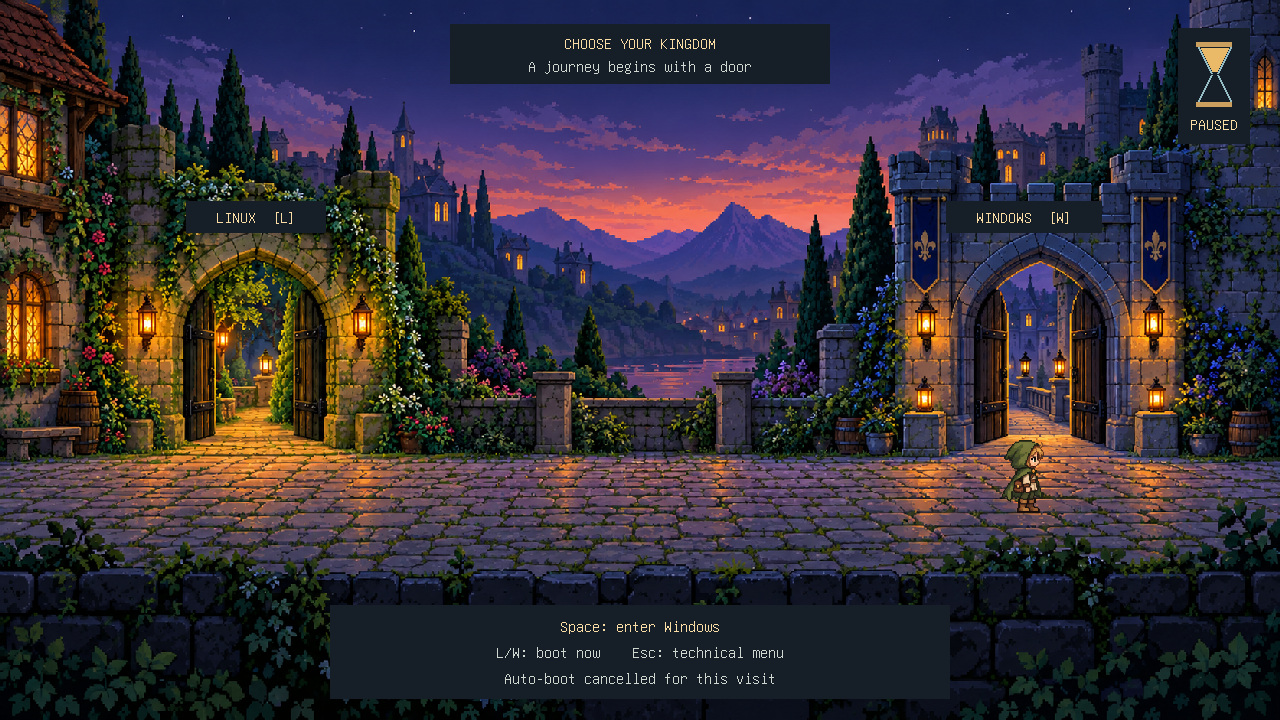
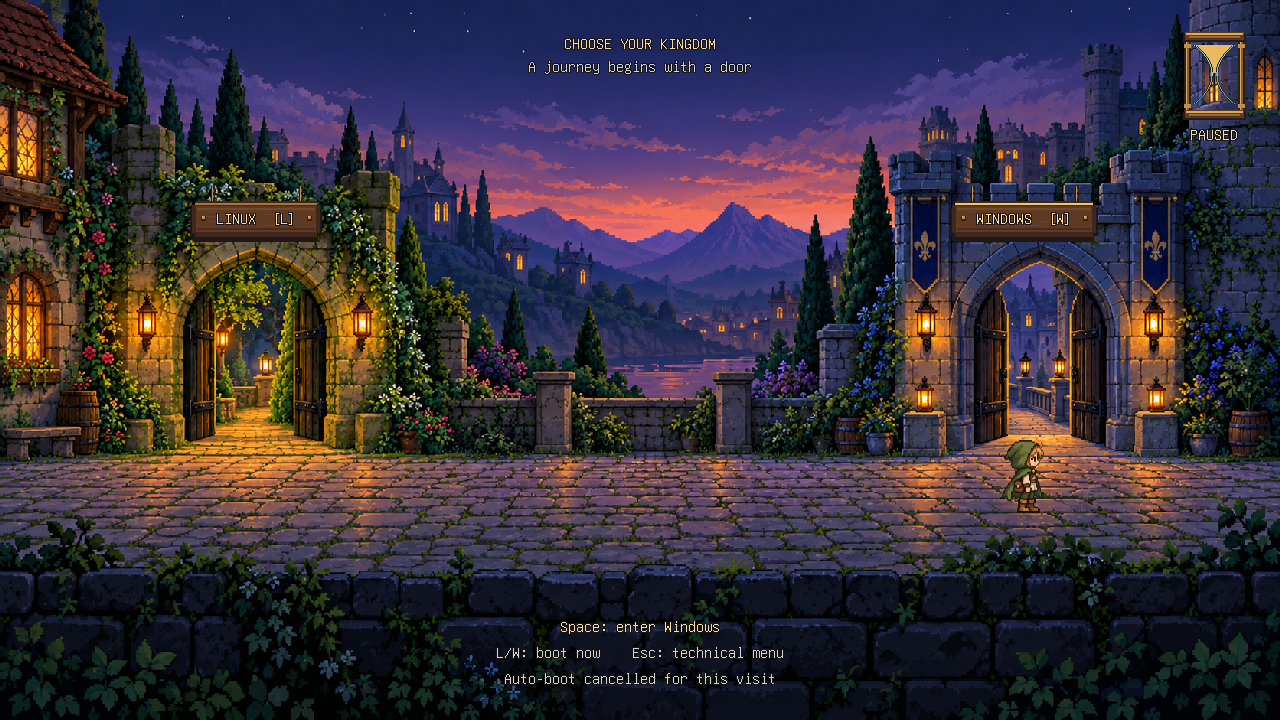
feat: add wooden gate signs and a freestanding hourglass

diff --git a/fancy/bourgeois.c b/fancy/bourgeois.c
@@ -46,6 +46,13 @@ static void
 label (const char *text, int center, int y, int gold)
 {
   int text_width = grub_font_get_string_width (font, text);
+  int dx, dy;
+  /* The scene remains visible behind the text. A dark outline keeps glyphs
+     readable over both lit stone and foliage. */
+  for (dy = -1; dy <= 1; dy += 2)
+    for (dx = -1; dx <= 1; dx += 2)
+      grub_font_draw_string (text, font, grub_video_map_rgb (24, 19, 22),
+                             center - text_width / 2 + dx, y + dy);
   grub_font_draw_string (text, font,
                         gold ? grub_video_map_rgb (250, 221, 165)
                              : grub_video_map_rgb (208, 215, 209),
@@ -53,31 +60,117 @@ label (const char *text, int center, int y, int gold)
 }
 
 static void
-hourglass (struct scene_state *s)
+gate_sign (const char *text, int center, int y, int selected)
 {
-  int x = width - 84, y = 42, row;
-  int used = (30000 - s->remaining) * 20 / 30000;
-  rect (x - 18, y - 14, 72, 116, 22, 30, 39);
-  rect (x, y, 36, 5, 203, 160, 94);
-  rect (x, y + 60, 36, 5, 203, 160, 94);
-  for (row = 0; row < 27; row++)
+  int w = grub_font_get_string_width (font, text) + 52;
+  int x = center - w / 2, i;
+  /* Short chains fasten the board above the doorway. */
+  for (i = -1; i <= 1; i += 2)
     {
-      int half = 16 - row / 2;
-      rect (x + 18 - half, y + 5 + row, 2, 1, 148, 189, 198);
-      rect (x + 18 + half, y + 5 + row, 2, 1, 148, 189, 198);
-      rect (x + 18 - half, y + 59 - row, 2, 1, 148, 189, 198);
-      rect (x + 18 + half, y + 59 - row, 2, 1, 148, 189, 198);
-      if (row >= used && row < 24)
-        rect (x + 21 - half, y + 6 + row, 2 * half - 4, 1, 234, 186, 105);
-      if (row < used)
-        rect (x + 21 - half, y + 58 - row, 2 * half - 4, 1, 234, 186, 105);
+      int chain = center + i * (w / 2 - 22);
+      rect (chain - 1, y - 15, 4, 18, 38, 27, 27);
+      rect (chain, y - 15, 1, 18, 185, 146, 88);
+      rect (chain + 1, y - 12, 1, 3, 109, 84, 54);
+      rect (chain + 1, y - 6, 1, 3, 109, 84, 54);
+    }
+  /* Stepped ends, a bevel, and grain give the board a carved silhouette. */
+  rect (x + 4, y + 3, w - 8, 38, 33, 23, 23);
+  rect (x, y + 7, w, 28, 33, 23, 23);
+  rect (x + 5, y, w - 10, 36, 63, 39, 29);
+  rect (x + 2, y + 4, w - 4, 28, 63, 39, 29);
+  rect (x + 5, y + 2, w - 10, 2, selected ? 239 : 168,
+        selected ? 199 : 116, selected ? 115 : 64);
+  rect (x + 6, y + 5, w - 12, 26, 94, 58, 36);
+  rect (x + 7, y + 7, w - 14, 2, 113, 72, 42);
+  rect (x + 7, y + 27, w - 14, 2, 73, 43, 30);
+  for (i = 0; i < 7; i++)
+    {
+      int start = 13 + (i * 29) % (w - 48);
+      rect (x + start, y + 10 + (i * 7) % 16, 12 + i % 3 * 4, 1,
+            108, 66, 38);
+    }
+  for (i = -1; i <= 1; i += 2)
+    {
+      int pin = center + i * (w / 2 - 13);
+      rect (pin - 2, y + 15, 5, 5, 46, 30, 25);
+      rect (pin - 1, y + 15, 3, 3, 193, 145, 76);
+      rect (pin - 1, y + 15, 1, 1, 246, 211, 136);
+    }
+  label (text, center, y + 23, 1);
+}
+
+static int
+glass_half_width (int row)
+{
+  return 3 + 17 * (28 - row) * (28 - row) / (28 * 28);
+}
+
+static void
+hourglass (struct scene_state *s, grub_uint64_t now)
+{
+  int x = width - 66, y = 32, row, side, total = 0, remaining, fallen;
+  /* Draw the frame without a backing panel, so its open areas show the sky. */
+  for (side = -1; side <= 1; side += 2)
+    {
+      int post = x + side * 27;
+      rect (post - 3, y + 6, 7, 76, 43, 29, 24);
+      rect (post - 1, y + 8, 3, 72, 139, 93, 48);
+      rect (post - 1, y + 8, 1, 72, 218, 172, 97);
+      rect (post - 3, y + 12, 7, 4, 194, 143, 72);
+      rect (post - 3, y + 72, 7, 4, 194, 143, 72);
+    }
+  for (row = 0; row < 28; row++)
+    {
+      int half = glass_half_width (row);
+      total += 2 * half - 3;
+      for (side = -1; side <= 1; side += 2)
+        {
+          int edge = x + side * half;
+          rect (edge - 1, y + 13 + row, 3, 1, 32, 44, 53);
+          rect (edge - 1, y + 71 - row, 3, 1, 32, 44, 53);
+          rect (edge, y + 13 + row, 1, 1, 157, 200, 201);
+          rect (edge, y + 71 - row, 1, 1, 117, 167, 177);
+        }
+    }
+  /* Fill by pixel area rather than height to keep both bulbs in step. */
+  remaining = total * s->remaining / 30000;
+  fallen = total - remaining;
+  for (row = 27; row >= 0; row--)
+    {
+      int span = 2 * glass_half_width (row) - 3;
+      int fill = remaining < span ? remaining : span;
+      if (fill)
+        rect (x - fill / 2, y + 13 + row, fill, 1, 234, 184, 93);
+      remaining -= fill;
+    }
+  for (row = 0; row < 28; row++)
+    {
+      int span = 2 * glass_half_width (row) - 3;
+      int fill = fallen < span ? fallen : span;
+      if (fill)
+        rect (x - fill / 2, y + 71 - row, fill, 1, 219, 155, 65);
+      fallen -= fill;
+      if (!s->cancelled && fallen == 0 && row > 2)
+        break;
     }
   if (!s->cancelled)
-    rect (x + 18, y + 32, 2, 20 - used / 2, 234, 186, 105);
+    for (row = 0; row < 4; row++)
+      rect (x, y + 42 + (row * 6 + now / 100) % 24, 1, 2, 250, 213, 132);
+  rect (x - 2, y + 40, 1, 4, 157, 200, 201);
+  rect (x + 2, y + 40, 1, 4, 117, 167, 177);
+  for (row = 0; row < 2; row++)
+    {
+      int base = y + row * 78;
+      rect (x - 31, base + 2, 63, 8, 40, 27, 25);
+      rect (x - 29, base, 59, 8, 98, 57, 34);
+      rect (x - 28, base + 1, 57, 2, 218, 172, 97);
+      rect (x - 25, base + 4, 51, 2, 157, 107, 55);
+      rect (x - 24, base + 6, 49, 1, 65, 40, 29);
+    }
   {
     char text[24];
     grub_snprintf (text, sizeof text, "%ds", (s->remaining + 999) / 1000);
-    label (s->cancelled ? "PAUSED" : text, x + 18, y + 88, 1);
+    label (s->cancelled ? "PAUSED" : text, x, y + 108, 1);
   }
 }
 
@@ -180,13 +273,10 @@ run_scene (grub_command_t cmd __attribute__ ((unused)), int argc, char **args)
       if (action != SCENE_WAIT)
         break;
       grub_video_blit_bitmap (background, GRUB_VIDEO_BLIT_REPLACE, 0, 0, 0, 0, width, height);
-      rect (width / 2 - 190, 24, 380, 60, 22, 30, 39);
       label ("CHOOSE YOUR KINGDOM", width / 2, 49, 1);
       label ("A journey begins with a door", width / 2, 72, 0);
-      rect (width / 5 - 70, height * 28 / 100, 140, 32, 22, 30, 39);
-      rect (width * 4 / 5 - 78, height * 28 / 100, 156, 32, 22, 30, 39);
-      label ("LINUX  [L]", width / 5, height * 28 / 100 + 22, 1);
-      label ("WINDOWS  [W]", width * 4 / 5, height * 28 / 100 + 22, 1);
+      gate_sign ("LINUX  [L]", width / 5, height * 28 / 100, state.x == 480);
+      gate_sign ("WINDOWS  [W]", width * 4 / 5, height * 28 / 100, state.x == 1920);
       {
         int frame = state.x != state.target ? (now / 140) % 4 : 0;
         grub_video_blit_bitmap (state.target < state.origin ? left_actor : actor, GRUB_VIDEO_BLIT_BLEND,
@@ -194,13 +284,12 @@ run_scene (grub_command_t cmd __attribute__ ((unused)), int argc, char **args)
                                 height * 73 / 100 - frame_height,
                                 frame * frame_width, 0, frame_width, frame_height);
       }
-      rect (width / 2 - 310, height - 115, 620, 94, 22, 30, 39);
       label (state.x == 480 ? "Space: enter Linux" : state.x == 1920 ? "Space: enter Windows"
              : "Left / Right: walk to a gate", width / 2, height - 88, 1);
       label ("L/W: boot now    Esc: technical menu", width / 2, height - 62, 0);
       label (state.cancelled ? "Auto-boot cancelled for this visit"
              : "Linux boots when the sand runs out", width / 2, height - 36, 0);
-      hourglass (&state);
+      hourglass (&state, now);
       grub_video_swap_buffers ();
       {
         unsigned elapsed = grub_get_time_ms () - now;
